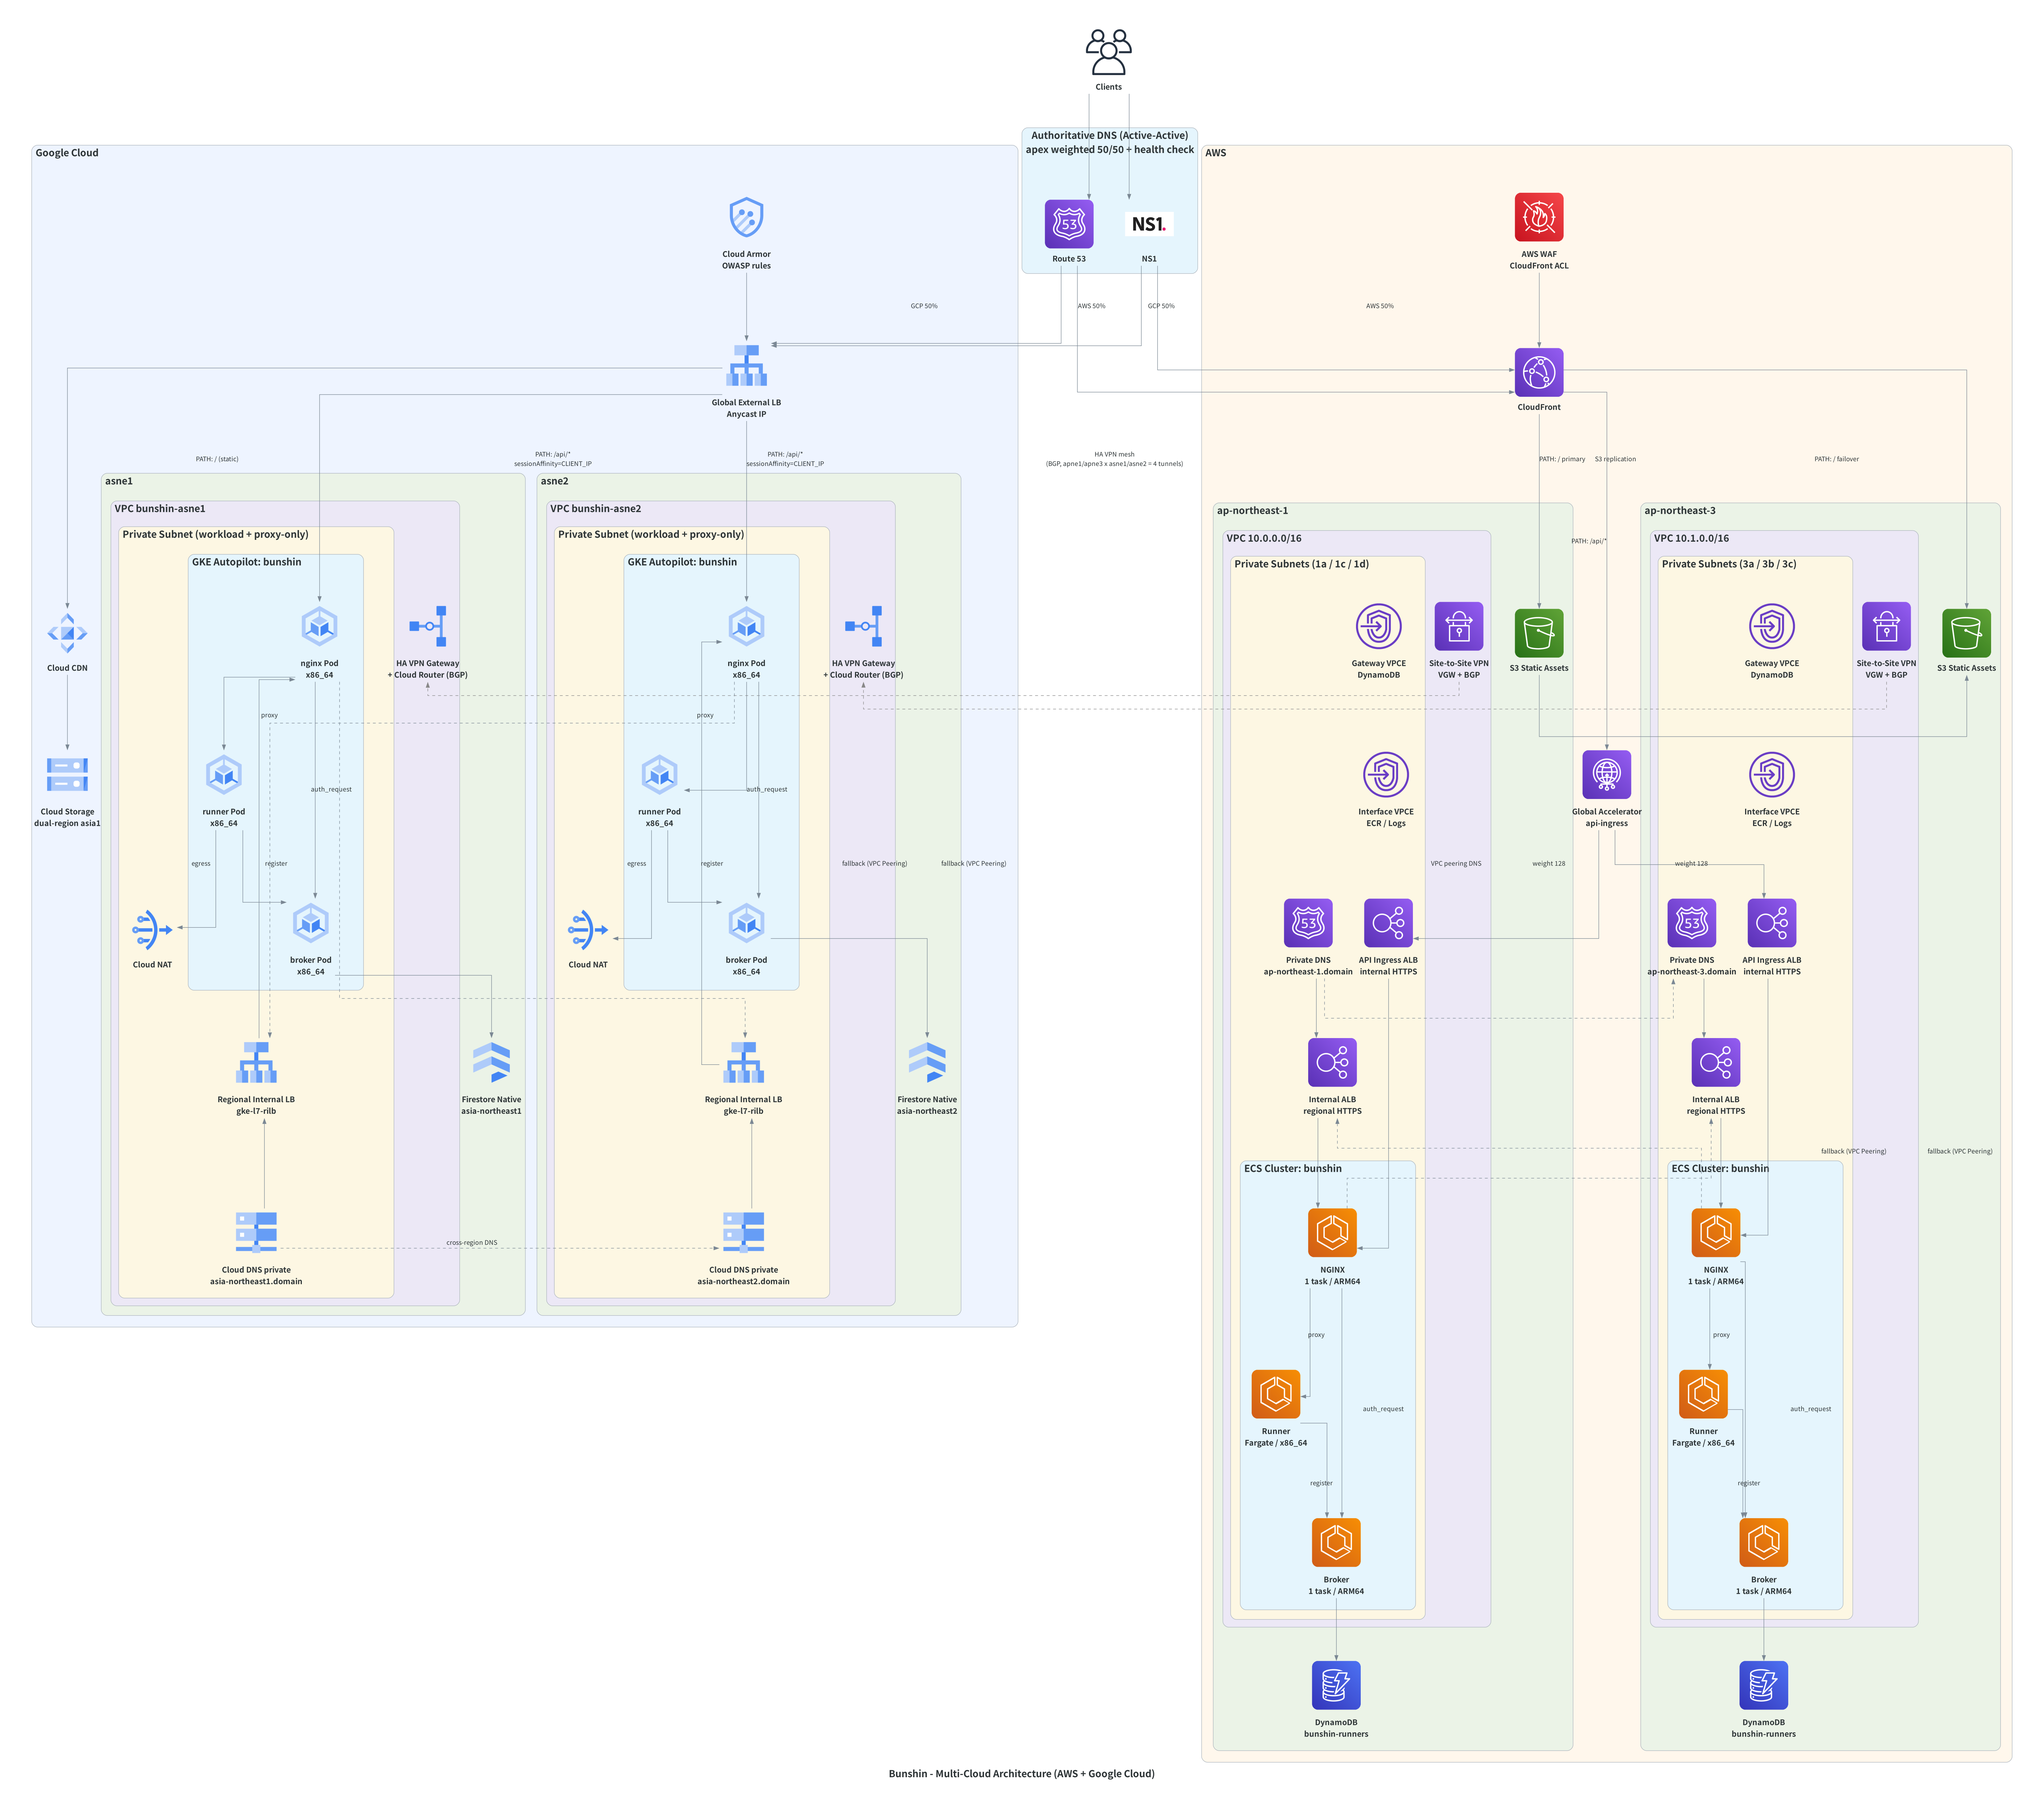
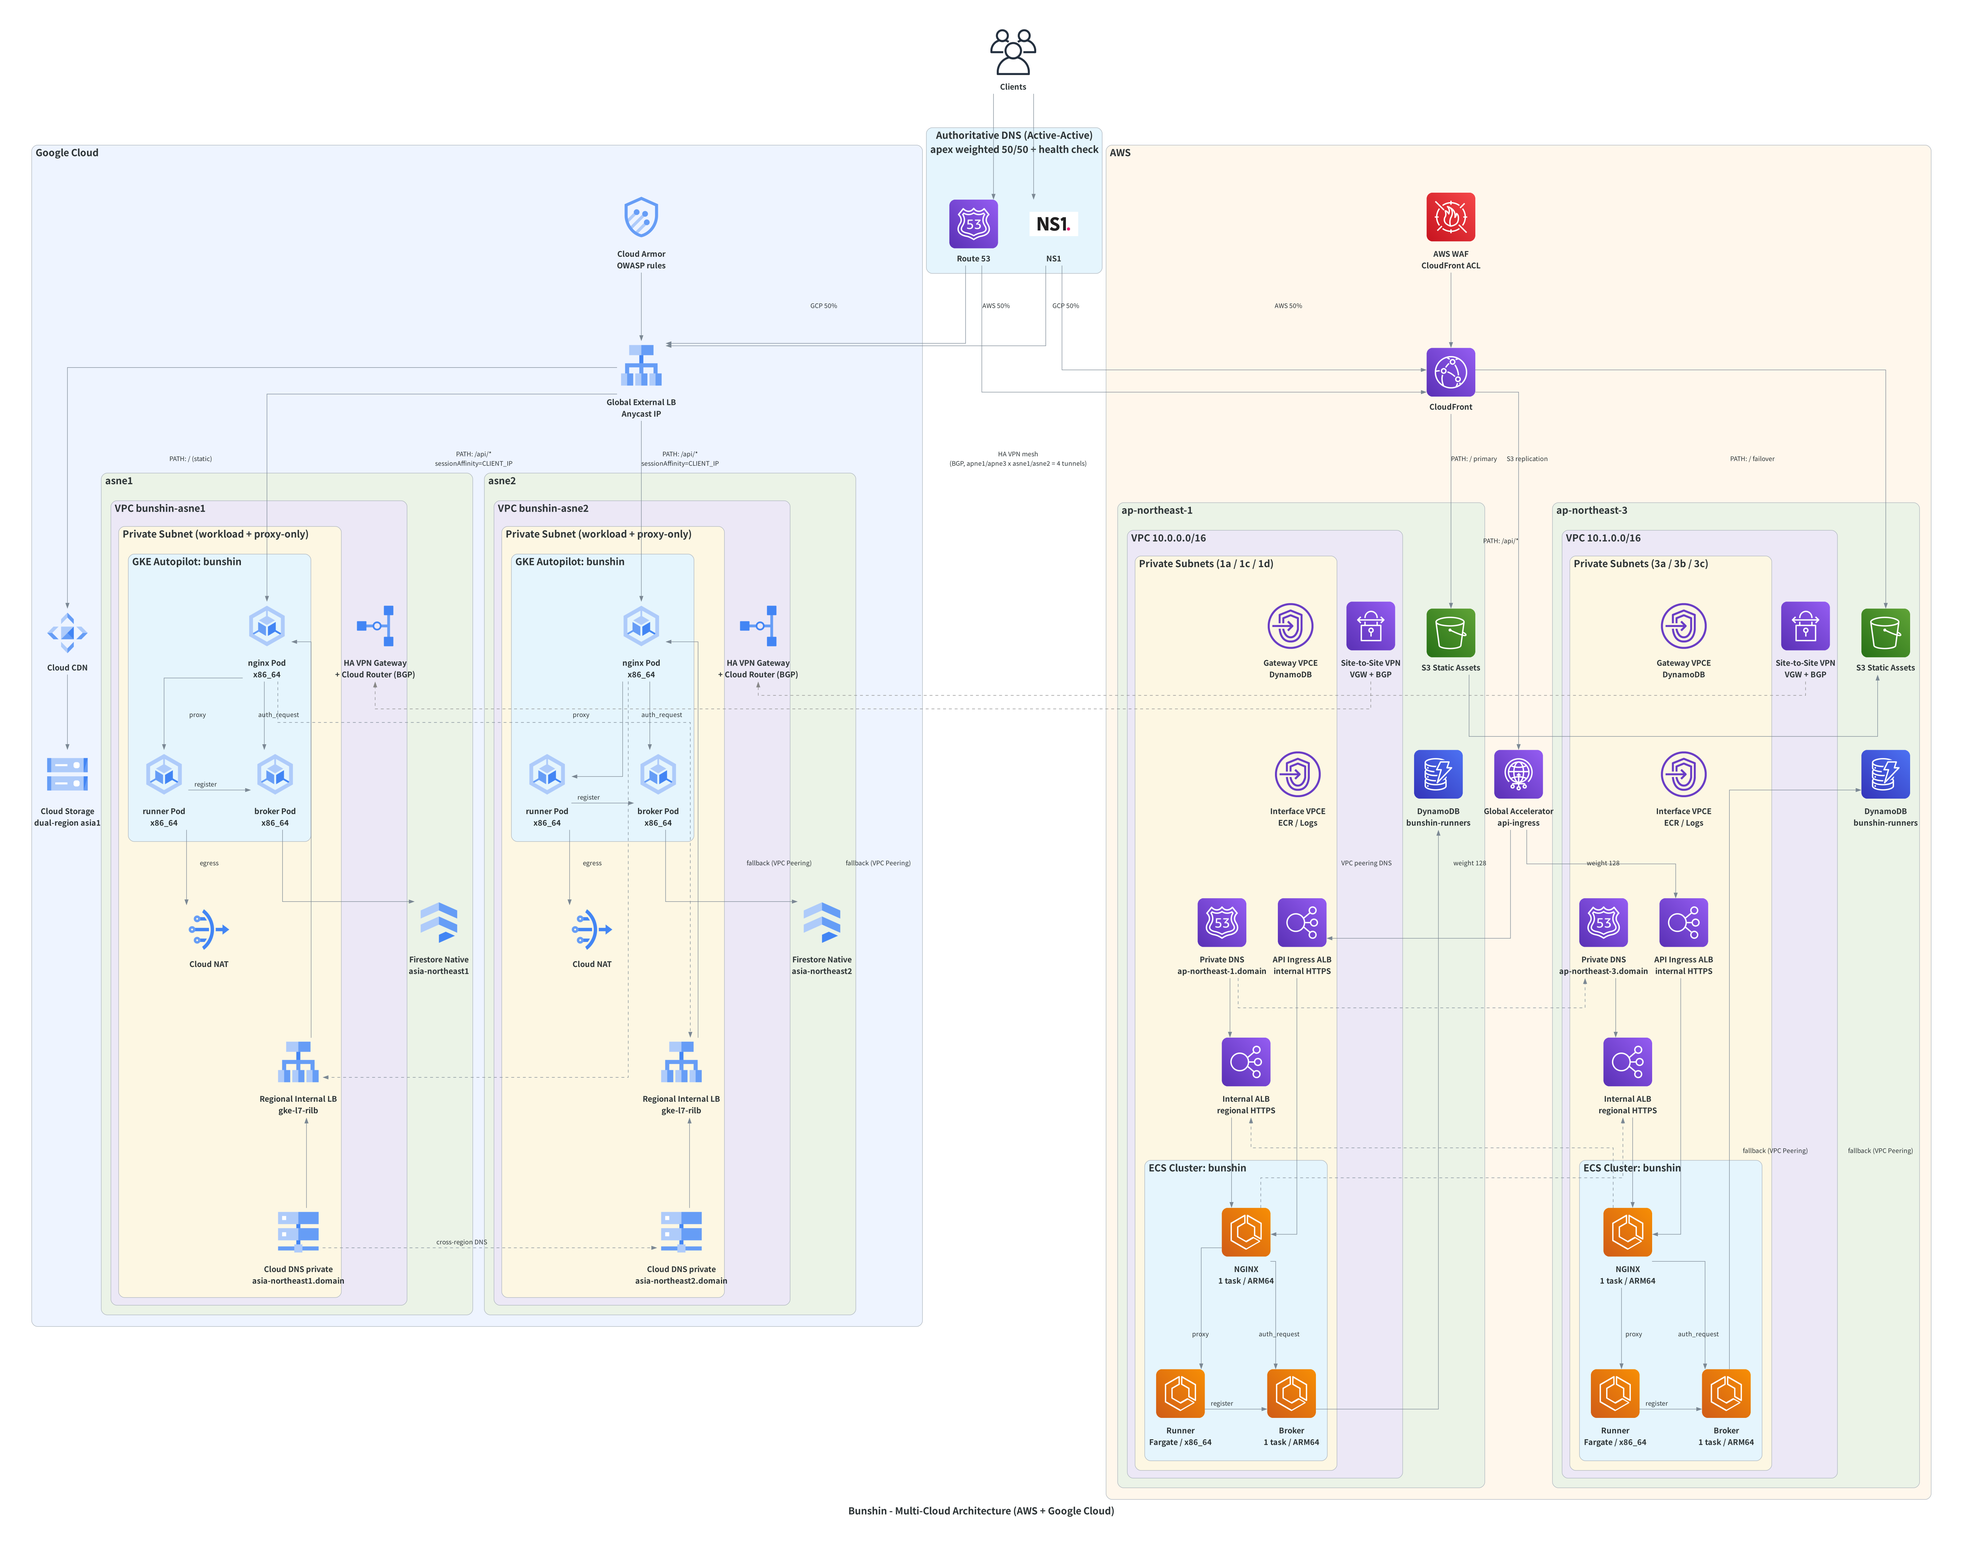
docs: balance AWS and Google Cloud cluster heights
Place S3 and DynamoDB in a shared top row on the AWS side (previously
DynamoDB was pulled below the ECS Cluster via the broker->ddb edge,
stretching the AWS block ~40% taller than the Google Cloud block).
Drop the register edge from the rank constraint on both clouds so
runner and broker share a row inside ECS Cluster and GKE Autopilot.

diff --git a/docs/architecture_diagram.py b/docs/architecture_diagram.py
@@ -77,13 +77,14 @@ def aws_region(name: str, cidr: str, azs: str) -> dict[str, object]:
                 private_dns >> internal_alb
                 nginx >> Edge(label="proxy") >> runner
                 nginx >> Edge(label="auth_request") >> broker
-                runner >> Edge(label="register") >> broker
+                runner >> Edge(label="register", constraint="false") >> broker
                 vpce_gateway >> Edge(style="invis") >> vpce_interface
                 vpce_interface >> Edge(style="invis") >> api_alb
                 api_alb >> Edge(style="invis") >> internal_alb
                 internal_alb >> Edge(style="invis") >> nginx
 
-        broker >> ddb
+        broker >> Edge(constraint="false") >> ddb
+        static >> Edge(style="invis") >> ddb
 
     return {
         "api_alb": api_alb,
@@ -118,7 +119,7 @@ def gcp_region(name: str, project_region: str) -> dict[str, object]:
                 private_dns >> rilb
                 nginx >> Edge(label="proxy") >> runner
                 nginx >> Edge(label="auth_request") >> broker
-                runner >> Edge(label="register") >> broker
+                runner >> Edge(label="register", constraint="false") >> broker
                 runner >> Edge(label="egress") >> nat
                 nat >> Edge(style="invis") >> rilb
                 rilb >> Edge(style="invis") >> private_dns
